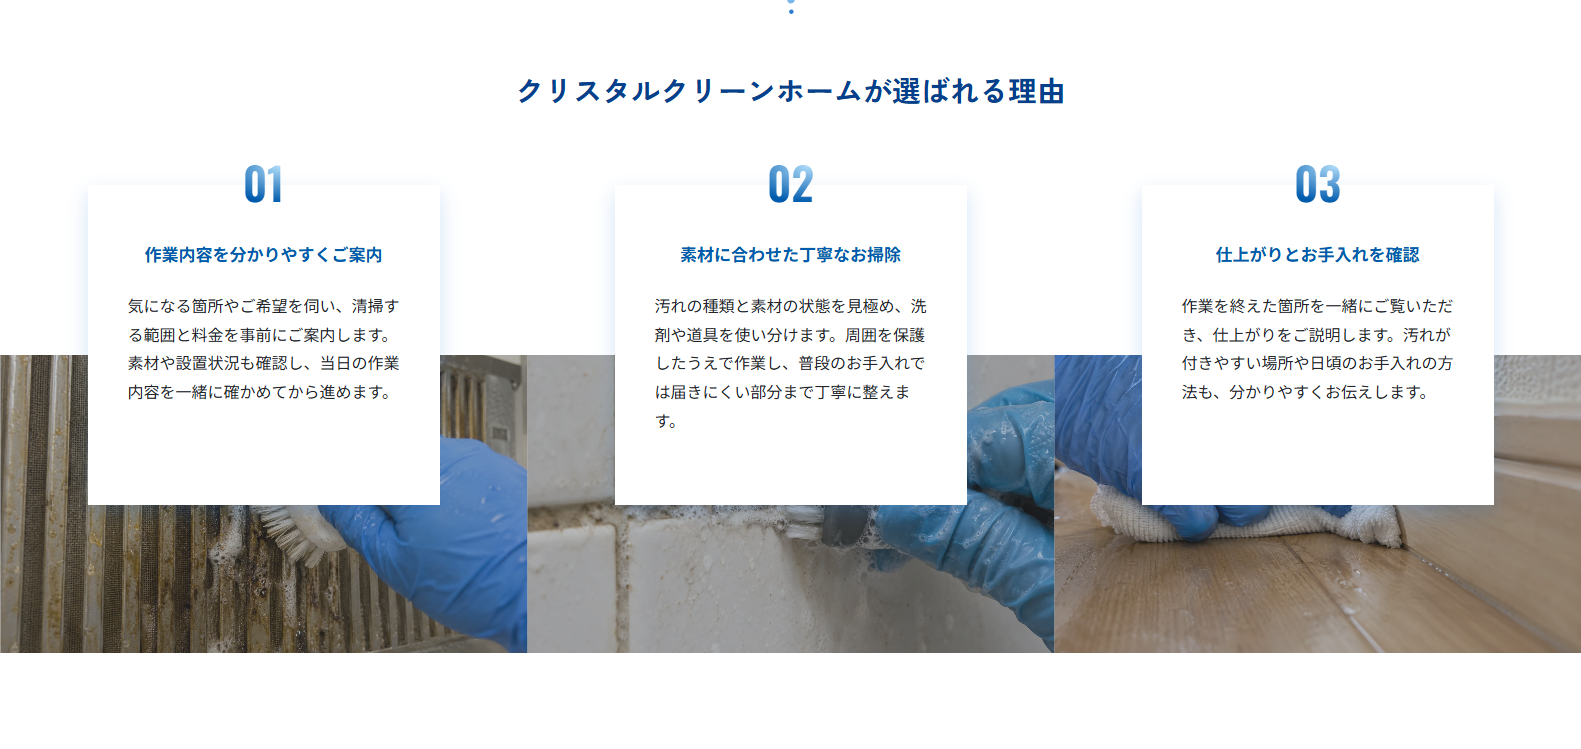
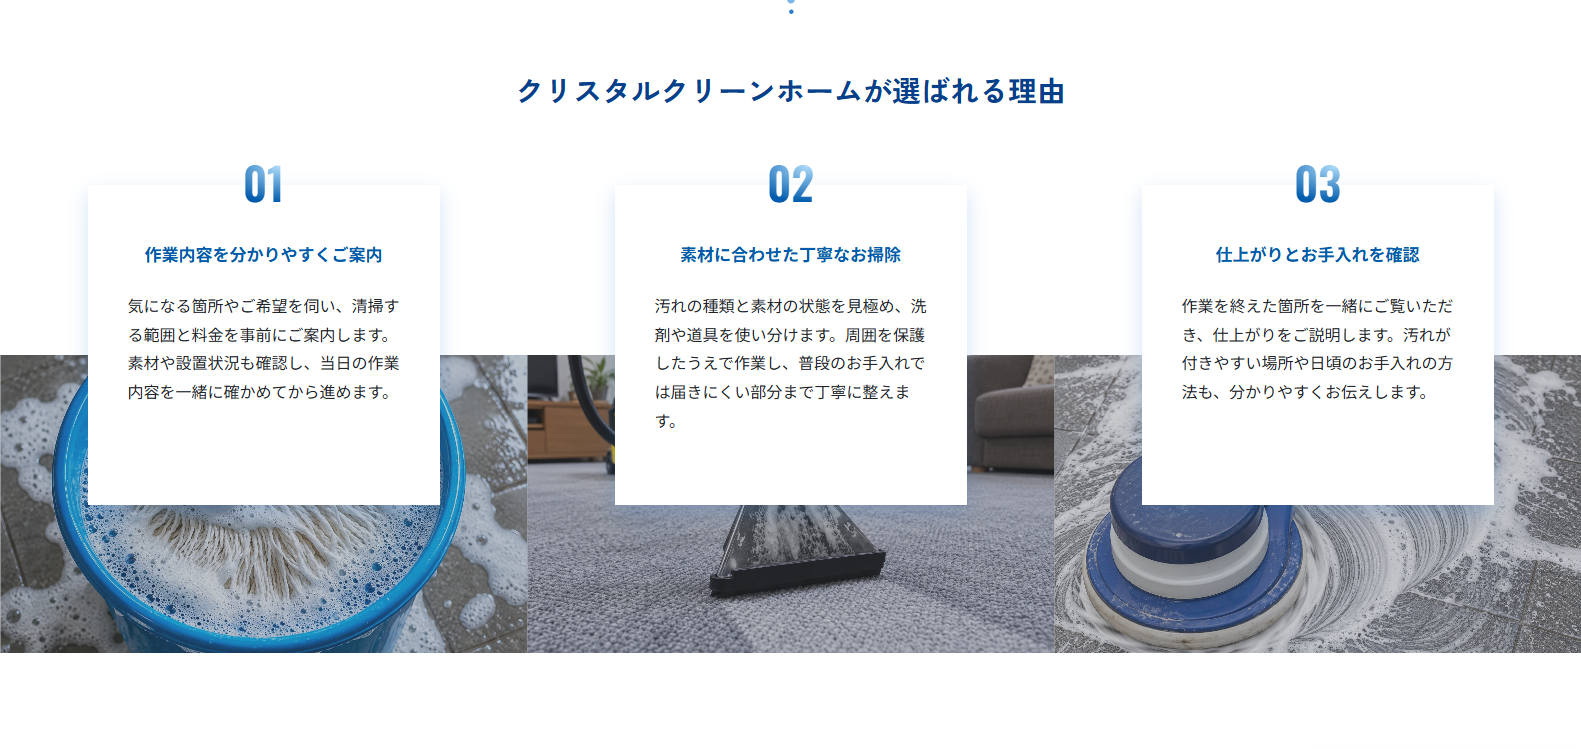
docs(service): record public verification of tool scenes
Save PC/mobile screenshots of the deployed three-scene reasons section and document Pages commit ca729b6, successful build, 188 HTTP/hash checks and removal of old hand imagery. Related: CHG-2026-10-02-052.

Changed region(s): [[0.0, 0.4606, 1.0, 0.8905]]

diff --git a/Crystal-Clean-Home_仕様書.md b/Crystal-Clean-Home_仕様書.md
@@ -34,4 +34,4 @@
 - 静的整合は `tools/build_service_pages.py --check`、`tools/verify_service_pages.py`、`tools/apply_site_identity.py --check`、`tools/verify_site_identity.py` で確認する。
 - ブラウザでは `tools/verify_service_browser.cjs` で46ページを390px・1440px、8カテゴリを320px・768pxでも確認する。画像破損、横はみ出し、声のロゴと見出しの重なり、FAQ・タブ・オプション・数量の操作を検査する。エアコンのプランタブは2件・1件の表示と切替を確認する。
 - PC 1581pxとスマホ390pxの代表画面は `evidence/2026-10-02/` に保存する。自動検査・画面確認・Gitコミット・Pages反映・公開HTTP照合・利用者の最終確認は別の判定として扱う。
-- 2026-10-02時点の記録：ソース `d6bf4b3`、公開Pages `08966c8`。Pages run `36904078889` は成功。46ページの静的検査、108表示条件のブラウザ検査、97ページのサイトID検査、公開対象188件のHTTP・ハッシュ照合が合格。`evidence/2026-10-02/public/` に公開先のPC・スマホ画面を保存した。人間による最終的な意匠確認とサーバー側の購入処理検収は含まない。
+- 2026-10-02時点の記録：ソース `35bdae3`、公開Pages `ca729b6`。Pages run `36911651691` は成功。46ページの静的検査、108表示条件のブラウザ検査、97ページのサイトID検査、公開対象188件のHTTP・ハッシュ照合が合格。新しい3写真は公開先でHTTP 200、置換前の3写真はHTTP 404。`evidence/2026-10-02/public/` に公開先のPC・スマホ画面を保存した。人間による最終的な意匠確認とサーバー側の購入処理検収は含まない。

diff --git a/変更履歴.md b/変更履歴.md
@@ -9,7 +9,8 @@
 - 影響範囲：全46サービスページ、共通画像3点、画像生成条件、画像参照、画面証拠。
 - 維持する範囲：「選ばれる理由」のカード3件の見出し・本文・寸法、薄いグレーの透過層。
 - 同期した仕様書：Crystal-Clean-Home_要件定義書.md、Crystal-Clean-Home_仕様書.md。
-- ローカル確認：46ページの静的検査が合格。PC 1581pxとスマホ390pxの画面で道具・清掃面が読み取れることを確認。全表示幅のブラウザ検査と公開照合は後続で記録する。
+- ローカル確認：46ページの静的検査、108表示条件のブラウザ検査、97ページのサイトID検査が合格。PC 1581pxとスマホ390pxの画面で道具・清掃面と3枚の順番を確認。
+- 公開確認：ソース `35bdae3`、Pages `ca729b6`。Pages run `36911651691` 成功、公開対象188件のHTTP・ハッシュ照合が合格。新しい写真3点はHTTP 200、旧手袋写真3点はHTTP 404。公開画面のPC・スマホ写真を `evidence/2026-10-02/public/` に保存。
 
 ## CHG-2026-10-02-051 エアコンの組み合わせプランを機種別タブへ戻す
 
